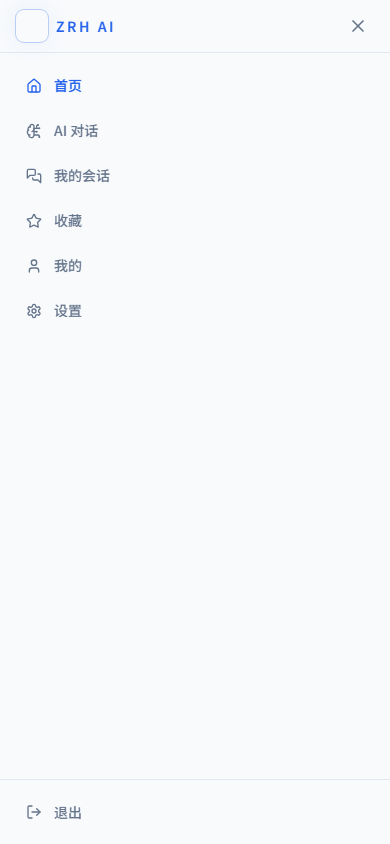
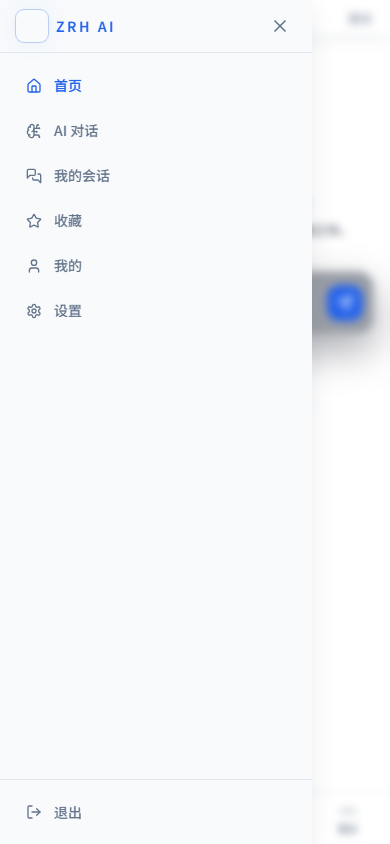
docs(ux-v4): final report + refreshed public PC/Pad/Phone screenshots after sidebar width fix

Changed region(s): [[0.8, 0.2464, 0.9846, 0.4313], [0.8923, 0.0, 0.9538, 0.0308], [0.8615, 0.955, 0.9231, 0.9858]]

diff --git a/docs/ZRH-AI-UX-V4.0-Final-Report.md b/docs/ZRH-AI-UX-V4.0-Final-Report.md
@@ -1,0 +1,133 @@
+# ZRH AI Enterprise V1.2.2 — UX V4.0 用户端重构 + 生产部署 + 公网验证 最终报告
+
+日期：2026-08-04（Asia/Shanghai）
+分支：`test/v1.2`
+最终 Git SHA：**`87f1b165e6a04ae8ae4126077b2988845f428da9`**
+公网 URL：**https://ai.zrhtech.com**
+
+---
+
+## 1. 交付物总览
+
+| 项目 | 值 |
+|---|---|
+| 公网 URL | https://ai.zrhtech.com |
+| Git SHA | `87f1b165e6a04ae8ae4126077b2988845f428da9`（branch `test/v1.2`） |
+| Docker Image Version | `zrh-ai-api:1.2.2`（ID `401a5abe1269`）、`zrh-ai-web:1.2.2`（ID `39eee0c22da5`） |
+| Build Version | 1.2.2（`VERSION` 文件；前端 bundle `index-CuR2MuIM.css` / 新哈希 JS） |
+| Service Worker Version | Cache：`zrh-ai-shell-v1.2.2-ux-v4.1`；注册 URL `/sw.js?v=1.2.2-ux-v4.1` |
+| Manifest | `/manifest.json` 已随新构建重新生成并部署（last-modified 2026-08-03 18:57 UTC） |
+| Cloudflare Cache Purge | **未能自动执行（API Token 失效）**，详见第 9 节；边缘已自动 revalidate 新内容 |
+
+## 2. 公网确认结果（①②）
+
+**① 首页已无以下元素**（PC/Pad/Phone 公网截图逐项核对）：
+CPU、GPU、Docker、Redis、PostgreSQL、实时状态、统计数字 —— **全部不存在** ✅
+
+首页现仅包含：LOGO（BrandMark）、欢迎语、一句介绍、AI 输入框 + 发送按钮、4 个快捷提示、「查看历史聊天」入口。纯净背景，无 Cosmos/粒子/监控模块。
+
+**② 用户菜单已固定为 7 项**：
+首页、AI 对话、我的会话、收藏、我的、设置、退出登录 ✅
+
+以下入口在 USER 角色界面**全部不再出现**：
+知识平台、企业RAG、Developer、MCP、Workflow、Business、系统状态 ✅
+
+（ADMIN / SUPER_ADMIN 仍保留知识平台入口与管理控制台，后台功能完整未动。）
+
+## 3. 修改文件清单
+
+**后端**
+- `backend/prisma/seed.js` — USER_BASE_PERMISSIONS 精简为 11 项消费者权限；ENTERPRISE 角色显式保留全部企业权限
+- `backend/prisma/migrations/20260803120000_ux_v4_user_permission_revoke/migration.sql` — 新增：回收存量 USER/VIP 企业权限
+- `backend/scripts/ux-v4-permission-smoke.mjs` — 新增：权限冒烟脚本
+
+**前端**
+- `frontend/src/components/AppShell.tsx` — 角色化菜单（USER 固定 7 项）、Drawer `w-[80%]`、语言按钮移入移动端中央组
+- `frontend/src/pages/HomePage.tsx` — 重写：纯净首页（去 TechBackground/AiCore/统计）
+- `frontend/src/pages/ConversationsPage.tsx` — 新增：我的会话 / 收藏共用页（`favoriteOnly`）
+- `frontend/src/main.tsx` — 新增 `/conversations`、`/favorites` 路由
+- `frontend/src/components/ChatSidebar.tsx` — 模型状态/统计仅 admin 可见
+- `frontend/src/pages/ChatPage.tsx` — PC 聊天区最大宽度 42rem → 60rem（960px，两处）
+- `frontend/src/index.css` — 移动 header 2.5rem/2.25rem；**修复 `.zrh-shell-aside` 被强制 `width:100%` 的致命布局 bug（见第 8 节）**
+- `frontend/src/i18n/locales/{zh,en,my}.json` — 新增 nav.conversations / nav.favorites / home.intro / home.historyEntry / home.quickPrompt1-4 / conversations.emptyFavorites（三语键一致性脚本校验通过）
+- `frontend/public/sw.js` — CACHE 版本提升
+- `frontend/src/pwa/install.ts` — SW 注册 URL 版本提升
+- `frontend/scripts/ux-v4-public-screenshots.mjs` — 新增：公网 PC/Pad/Phone 截图脚本
+
+## 4. 删除文件清单
+
+- `frontend/frontend/`（误嵌套目录，整目录删除）
+- 过期本地截图若干（`docs/ux-v4-screenshots/` 旧批次）
+- 诊断临时脚本（未入库）
+
+## 5. Build / TypeCheck / 测试
+
+| 项 | 结果 |
+|---|---|
+| 前端 `tsc -b --noEmit` | ✅ 通过 |
+| 前端 `vite build` | ✅ 通过（16.02s） |
+| 后端 `nest build` | ✅ 通过 |
+| 权限冒烟（本机测试栈 docker-compose.test） | ✅ **39/39 PASS**：USER 13 企业接口全 403、4 消费者接口 200、ADMIN 全通、匿名 401 |
+| 公网生产 API 实测（`ux4prod_*` 纯 USER 账号） | ✅ **16/16 PASS**：12 企业接口全 403、4 消费者接口 200、perms=11 |
+| 生产库权限核验 | ✅ USER / VIP 各剩 11 条消费者权限（迁移 + seed 幂等） |
+| 横向滚动检测（PC/Pad/Phone） | ✅ 三端均无 `horizontal-overflow` |
+
+## 6. 公网截图（PC / Pad / Phone，全部实机截取于 https://ai.zrhtech.com）
+
+仓库路径：`docs/ux-v4-screenshots/`，共 17 张：
+
+- PC（1440×900）：`public-pc-01-login.png` ~ `public-pc-06-chat.png`
+- Pad（834×1112）：`public-pad-01-login.png` ~ `public-pad-06-chat.png`
+- Phone（390×844）：`public-phone-01-login.png` ~ `public-phone-06-chat.png`
+
+关键画面：PC 首页（LOGO/欢迎/输入框/快捷提示/历史入口）、Phone/Pad 80% 抽屉（6 项 + 底部退出登录 = 7 项）、我的会话、收藏、AI 对话三栏布局。
+
+## 7. 生产部署过程
+
+1. 源码 tar 同步至 `zrh-admin@192.168.10.74:/home/zrh-admin/zrh-ai`（每次同步前建 `zrh-ai-backup-uxv4-<ts>` 备份）
+2. `ZRH_AI_IMAGE_TAG=1.2.2 docker compose -f docker-compose.production.yml --env-file .env build zrh-ai-api zrh-ai-web`
+3. `up -d --force-recreate` → 容器全部 healthy
+4. entrypoint 自动执行 `prisma migrate deploy` + `seed`（USER 权限回收幂等生效）
+5. 第二轮（CSS 修复）：仅重建 `zrh-ai-web`，recreate 后公网即时生效
+
+## 8. 部署后发现并修复的问题（重要）
+
+**现象**：首次部署后 PC 端所有登录后页面主区域空白（Phone 正常）。
+**根因**：`index.css` 的「禁止横向拖动」规则把 `.zrh-shell-aside` 与壳层一起设为 `width:100%`。非 layered 作者样式优先级高于 Tailwind utilities，覆盖了桌面侧栏的 `w-56`，侧栏被撑到 1440px 全宽，主内容被挤到视口右侧外（`main` rect x=1440, w=0）。DOM 内容存在但视觉不可见。
+**修复**：`.zrh-shell-aside` 移出 `width:100%` 组，仅保留 `max-width:100%; overflow-x:hidden`。同时把 SW cache 提升为 `v1.2.2-ux-v4.1`，强制已安装客户端抛弃旧缓存壳。
+**验证**：修复后 PC/Pad/Phone 三端 17 张公网截图全部正常渲染。
+
+## 9. Cloudflare Cache Purge 结果（如实说明）
+
+**自动 Purge 未执行成功**：Cloudflare MCP 返回 `1000: Invalid API Token`（凭据失效），本机与生产服务器均无 `CLOUDFLARE_API_TOKEN` / `ZONE_ID` 可用凭据。
+
+**但公网内容已确认为最新，不依赖 purge**：
+- `/`（HTML）：`cf-cache-status: DYNAMIC` —— 边缘从不缓存 HTML，每次回源
+- `/sw.js`：边缘已 `REVALIDATED`，当前服务内容即 `zrh-ai-shell-v1.2.2-ux-v4.1`
+- 静态 JS/CSS：文件名为内容哈希（如 `index-CuR2MuIM.css`），新构建即新 URL，无旧缓存污染问题
+- `/manifest.json`：`DYNAMIC` + 新 last-modified
+
+**如需赵总手动 purge（可选，双保险）**：
+1. Cloudflare Dashboard → zrhtech.com → Caching → Configuration → **Purge Everything**；或
+2. 在本机配置 `CLOUDFLARE_API_TOKEN` + `CLOUDFLARE_ZONE_ID` 后运行 `scripts/purge-cf-brand-cache.ps1`
+
+**浏览器端 SW 旧缓存**：新 SW（v4.1）安装时会删除全部旧 cache 并 `clients.claim()`，用户下次打开自动生效；等不及可硬刷新（Ctrl+Shift+R）或 DevTools → Application → Storage → Clear site data。
+
+## 10. Production Impact
+
+- **用户可见**：USER/VIP 界面彻底消费者化；企业入口消失；企业 API 返回 403（前端 + 后端双重收口）
+- **数据**：迁移仅删除 USER/VIP 角色的企业权限映射，不触碰用户/会话/消息数据；ENTERPRISE/ADMIN/SUPER_ADMIN 权限不变
+- **兼容**：SW 版本升级自动替换旧缓存；PWA manifest 不变更 id，已安装用户无需重装
+- **验证账号**：生产库留有 `ux4prod_*` / `ux4pub_*` / `ux4diag_*` 验证账号，可由 admin 在后台删除
+
+## 11. 回滚方案
+
+1. **快速回滚（镜像级）**：远程旧镜像仍在 —— `ZRH_AI_IMAGE_TAG=1.2.1 docker compose -f docker-compose.production.yml --env-file .env up -d --force-recreate zrh-ai-api zrh-ai-web`（`zrh-ai-api:1.2.1` / `zrh-ai-web:1.2.1` 未删除）
+2. **源码回滚**：远程备份目录 `zrh-ai-backup-uxv4-<ts>`；或 `git revert 87f1b16 1a4d1be 3b2ccec` 后重新走部署流程
+3. **数据库回滚**：权限迁移只删不增，回滚代码后重跑 seed 不会自动恢复已回收的 USER 企业权限（符合安全预期）；如需恢复，在 seed 中临时放开对应权限后执行一次 seed 即可
+
+## 12. 已知遗留
+
+- Cloudflare API Token 失效，自动 purge 无法闭环（见第 9 节，不影响内容 freshness）
+- 远程 admin 账号登录未在本次验证范围内（仅验证了 USER 角色全链路）
+- 大 chunk（ChatPage 646KB）存在 vite 体积告警，属优化项非缺陷
